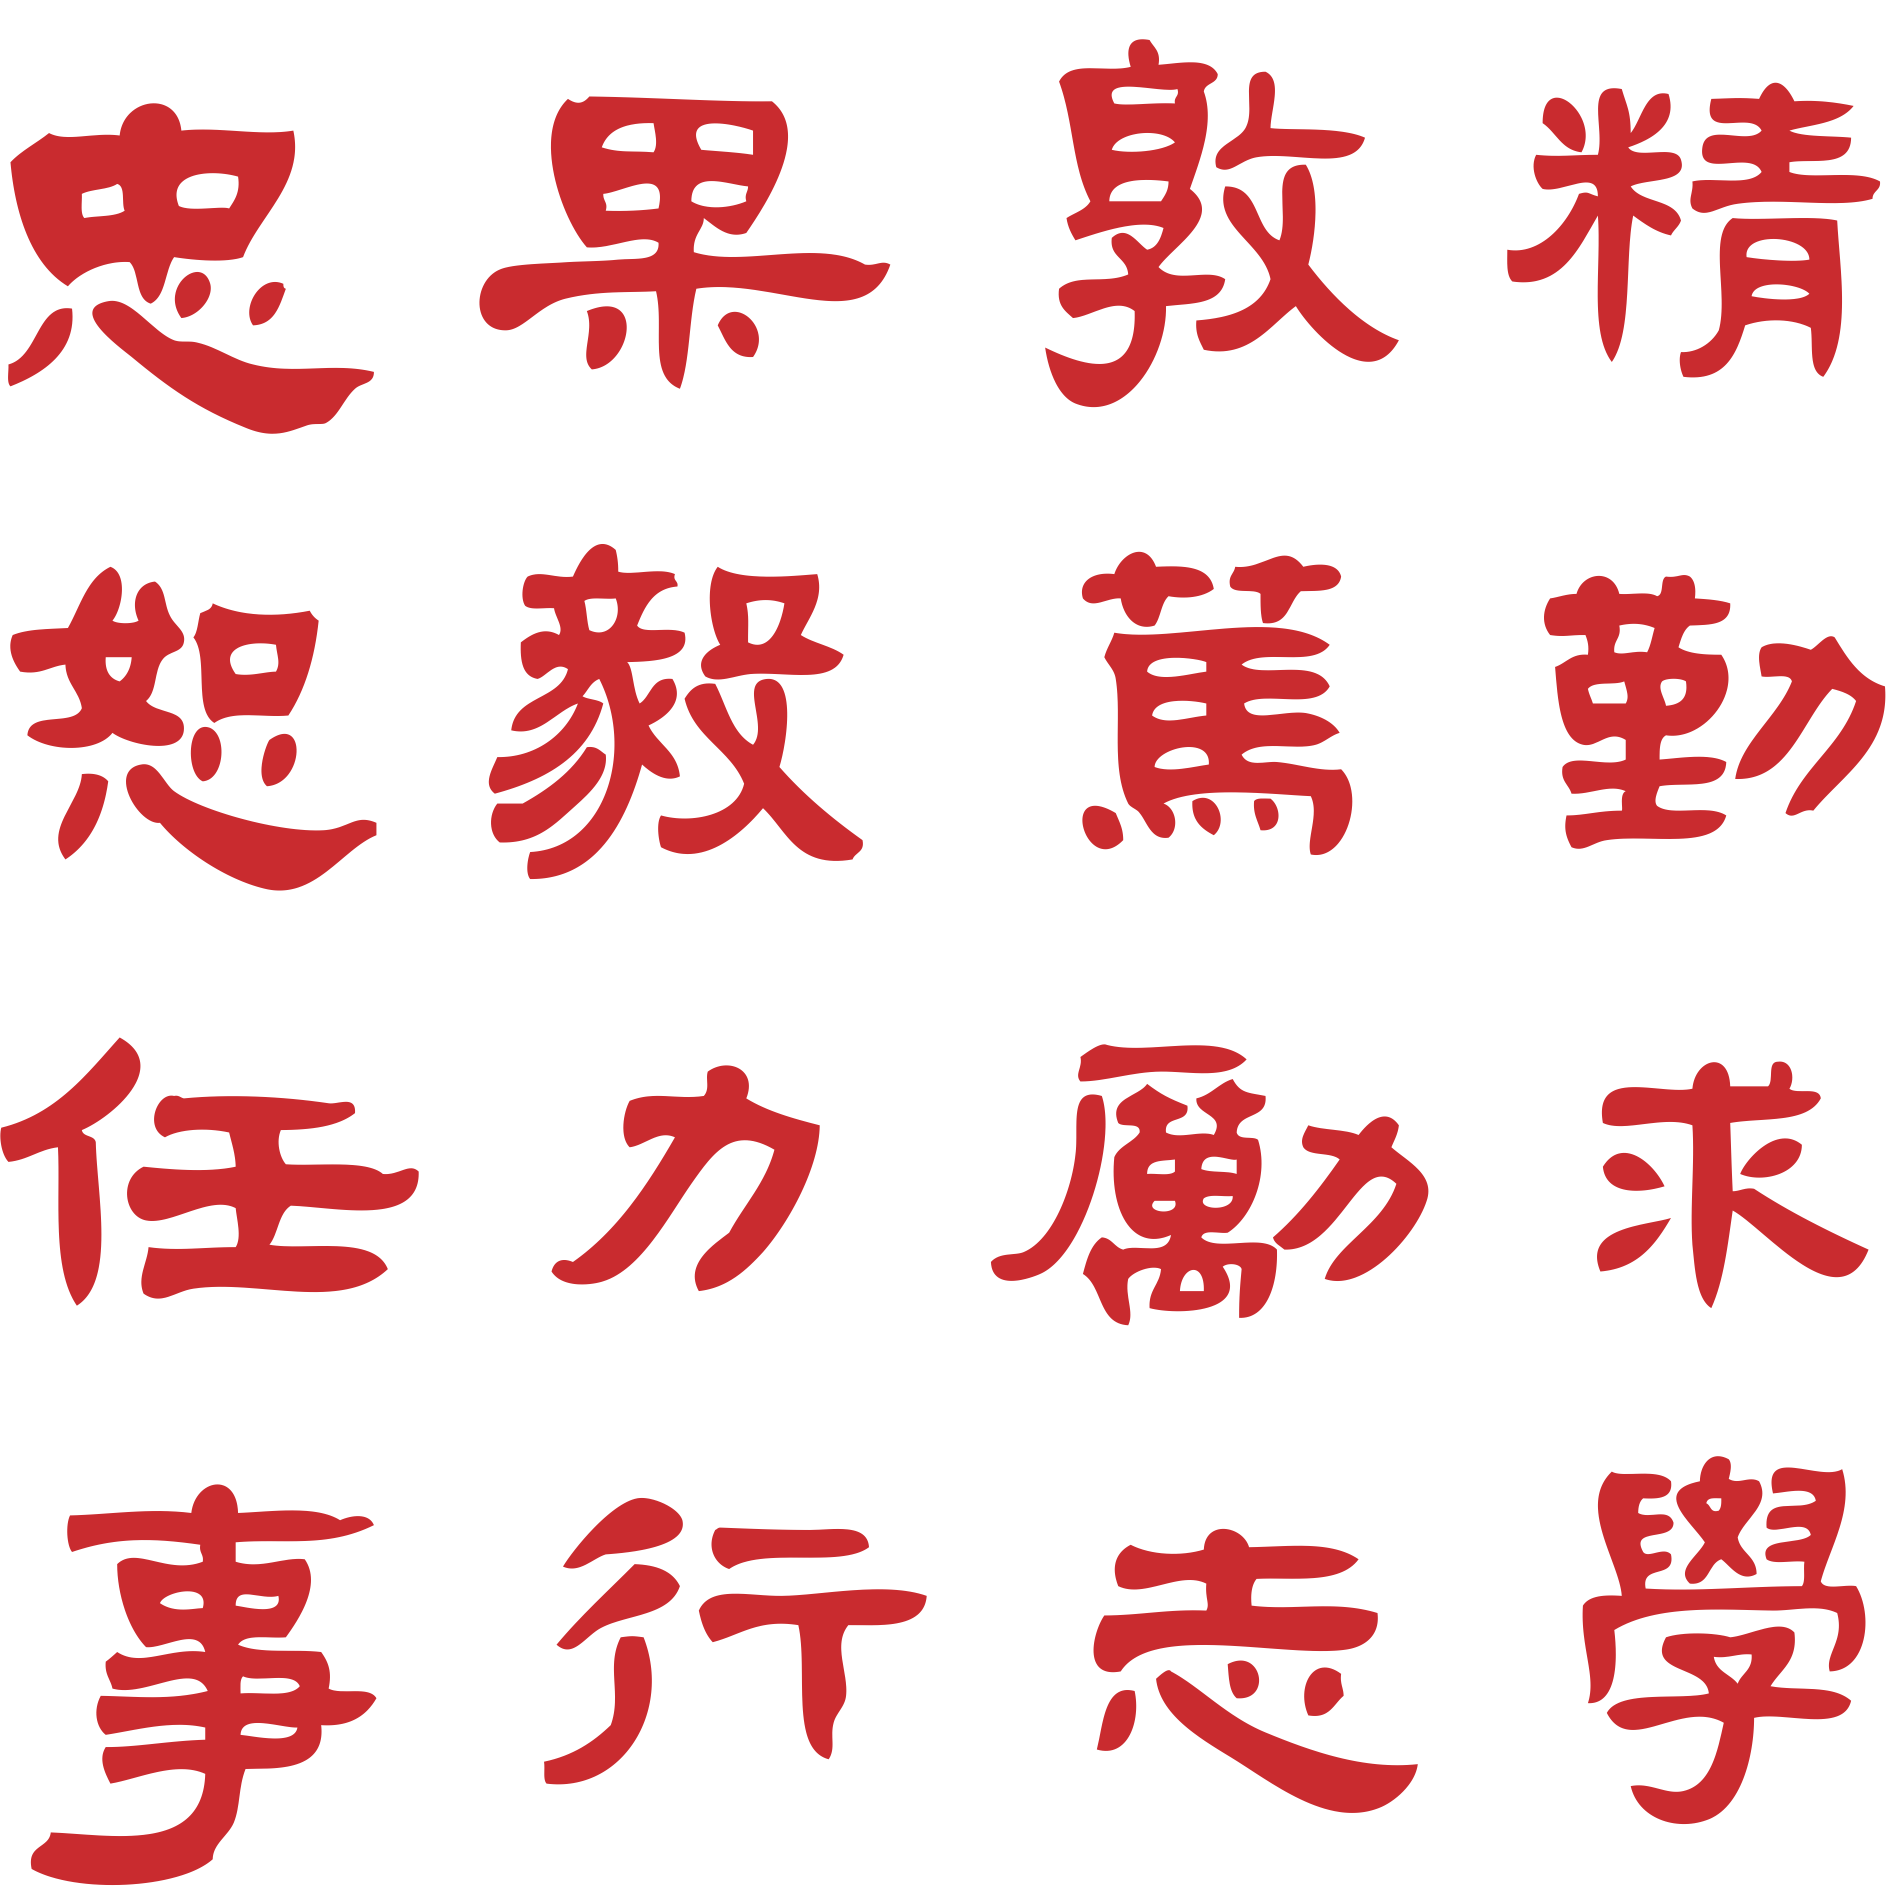
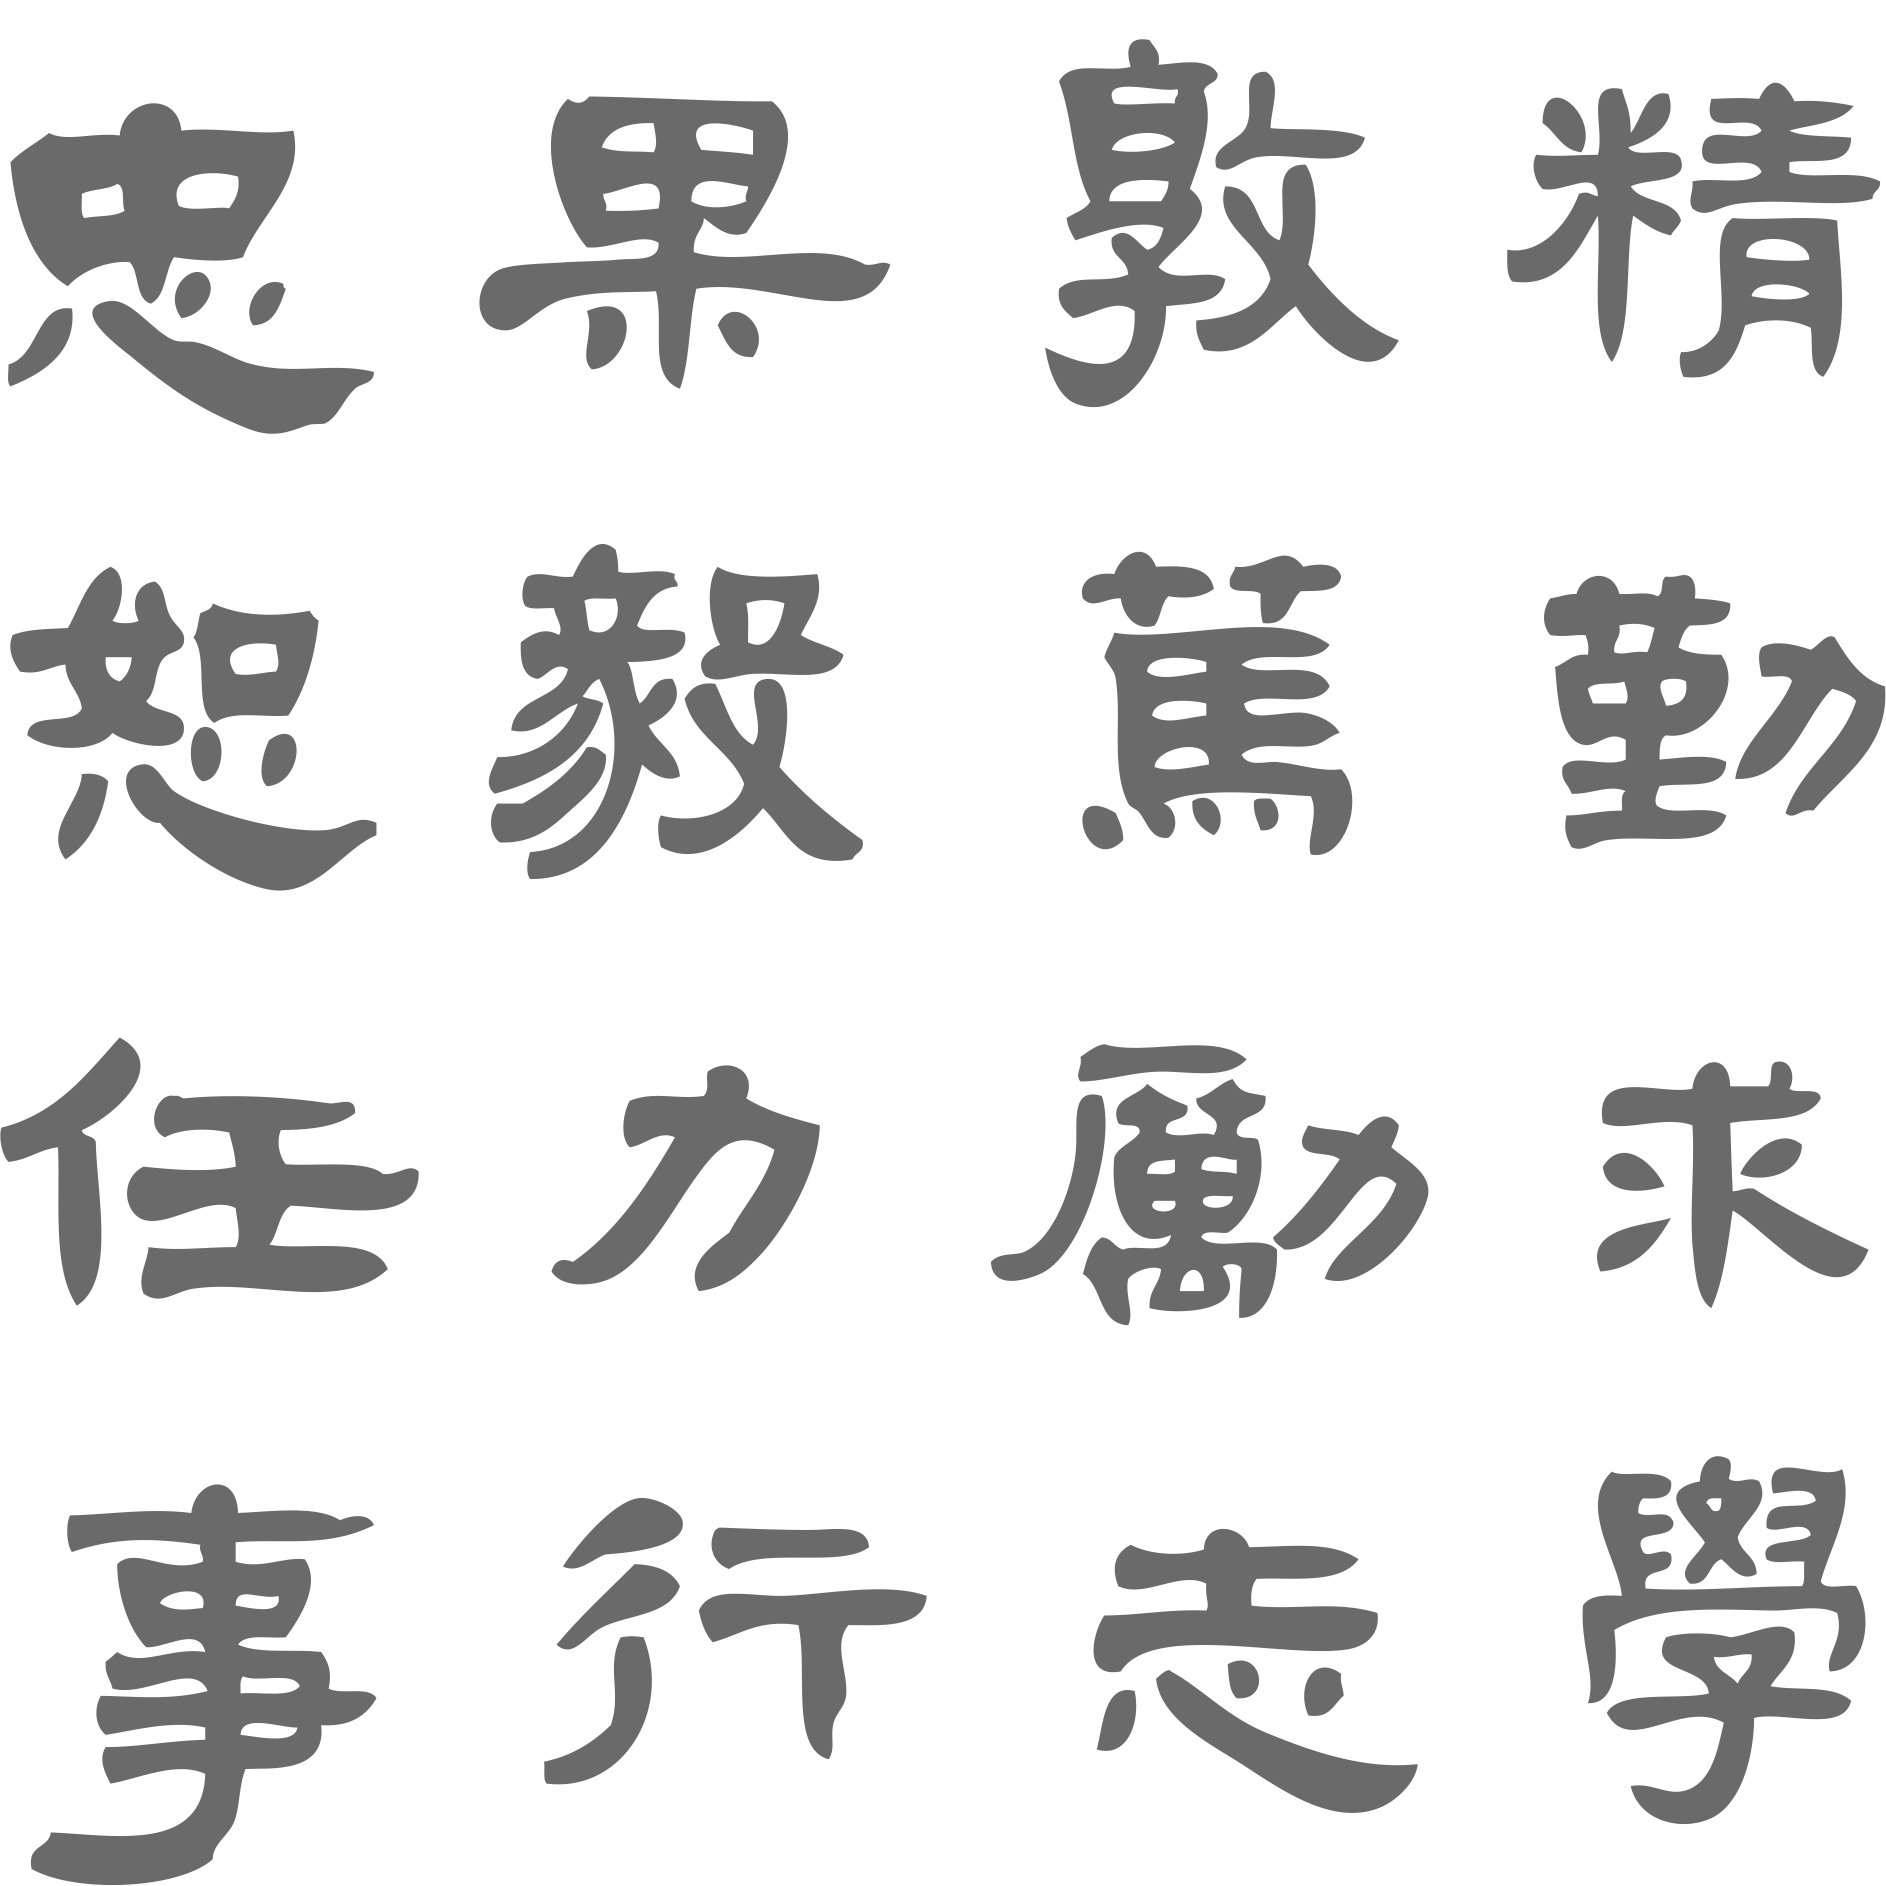
use motto at page thanks

diff --git a/slide.tex b/slide.tex
@@ -258,10 +258,24 @@
 
 \section*{Thanks}
 
+{
+\usebackgroundtemplate{
+    \begin{tikzpicture}[overlay,remember picture]
+        % Background picture
+        \node[at=(current page.center),anchor=center,inner sep=0pt,outer sep=0pt, fill opacity=0.36] {
+            \includegraphics[keepaspectratio,height=0.5\paperheight]{style/xjtu_motto_origin.png}};
+    \end{tikzpicture}
+}
 \begin{frame}
-    \begin{center}
-        \Huge \textsc{Thanks!}
-    \end{center}
+    % \begin{center}
+    %     \Huge \textsc{Thanks!}
+    % \end{center}
+    \begin{tikzpicture}[overlay,remember picture]
+        % Background picture
+        \node[at=(current page.center),anchor=center,inner sep=0pt,outer sep=0pt] 
+        {\Huge \textsc{Thanks!}};
+    \end{tikzpicture}
 \end{frame}
+}
 
 \end{document}
